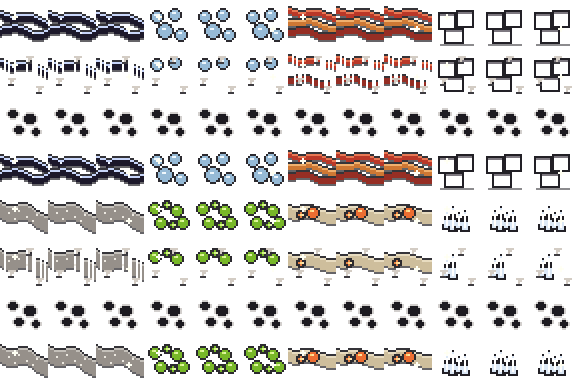
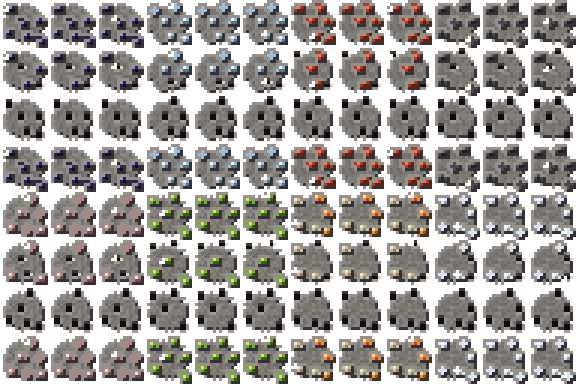
Veins: blocky ore in a stone patch, in the style of game ore blocks
Drawn on a 16 x 16 grid scaled 3x: chunky ore blobs with lit and shaded
edges, set in a patch of speckled stone so dark ores show on dark cliffs;
worked out leaves square sockets. Same sheets, spots and rows as before.

Claude-Session: https://claude.ai/code/session_0115RLwA5pjDTVrGAdwYrXJa

diff --git a/art/gather_veins.py b/art/gather_veins.py
@@ -1,135 +1,131 @@
 # Run from the repository root:  python3 art/gather_veins.py
-# Draws two character sheets of gathering spots that sit ON WALL TILES (cliff faces, tube walls): a seam of mineral
-# set into the rock, on a transparent background so the wall shows through.
+# Draws two character sheets of gathering spots that sit ON WALL TILES (cliff faces, tube walls): blocky clusters of
+# mineral set into the rock, in the angular style of game ore blocks, on a transparent background so the wall shows.
 #   img/characters/!Veins_Stone.png   stone for knapping
 #   img/characters/!Veins_Ore.png     ore and other wall finds
 # Each sheet holds 8 spots (RPG Maker's 8-character sheet). Every spot has 4 rows (the event's direction):
 #   down  = full          left = chipped (taken today)          right = worked out          up = full (spare)
 # and 3 columns: the middle one is plain; the outer two carry a glint (turn Stepping on and it twinkles).
 # SI_Gather turns the event to the right row by itself (any graphic whose name starts with "!Veins").
-# Pixel art drawn at 24 x 24 and doubled to 48 x 48.
+# Drawn on a 16 x 16 grid and scaled 3x to 48 x 48, so every pixel is a hard square. The ore sits in a patch of
+# plain speckled stone, set into the wall, so dark ores (coal, lodestone) still show on dark cliffs.
 import random
-from PIL import Image, ImageDraw
+from PIL import Image
 
-S = 24
-CRACK = (10, 8, 14)
+N = 16
 STONE = ['Obsidian', 'Chalcedony', 'Jasper', 'Basalt', 'Andesite', 'Olivine', 'Trachyte Cliff', 'Snowline Quartz']
 ORE = ['Copper Vein', 'Lead Vein', 'Lodestone', 'Coal Seam', 'Sulfur Vent', 'Moonmilk', 'Ochre', 'White Clay']
+SHADOW = (12, 10, 16, 170)
 
-def rgba(c, a=255): return tuple(c[:3]) + (a,)
-def shade(c, k, a=255): return tuple(max(0, min(255, int(v * k))) for v in c[:3]) + (a,)
+# (dark, base, light) per spot; a second palette is mixed in for a few (opal in trachyte, azurite in copper).
+PAL = {
+    'Obsidian':        [((18, 14, 30), (46, 36, 72), (150, 140, 220))],
+    'Chalcedony':      [((84, 112, 140), (156, 192, 218), (236, 246, 252))],
+    'Jasper':          [((104, 28, 22), (176, 56, 38), (232, 122, 84))],
+    'Basalt':          [((34, 32, 38), (76, 72, 82), (128, 124, 136))],
+    'Andesite':        [((112, 78, 80), (176, 132, 128), (244, 232, 226))],
+    'Olivine':         [((54, 92, 18), (116, 176, 38), (204, 238, 112))],
+    'Trachyte Cliff':  [((146, 126, 96), (204, 188, 152), (240, 230, 204)), ((190, 64, 26), (246, 136, 54), (255, 222, 140))],
+    'Snowline Quartz': [((140, 156, 182), (218, 230, 246), (255, 255, 255))],
+    'Copper Vein':     [((26, 104, 74), (56, 178, 126), (150, 240, 192)), ((34, 50, 150), (60, 96, 210), (150, 184, 252))],
+    'Lead Vein':       [((84, 90, 104), (156, 164, 180), (238, 242, 250))],
+    'Lodestone':       [((24, 18, 18), (66, 54, 52), (156, 146, 142))],
+    'Coal Seam':       [((8, 8, 10), (32, 30, 36), (86, 86, 100))],
+    'Sulfur Vent':     [((150, 120, 16), (230, 204, 46), (255, 246, 150))],
+    'Moonmilk':        [((172, 168, 158), (230, 226, 216), (255, 255, 250))],
+    'Ochre':           [((114, 40, 18), (178, 78, 34), (226, 132, 72))],
+    'White Clay':      [((166, 160, 148), (220, 214, 202), (250, 246, 238))],
+}
+SEED = {name: i * 7 + 3 for i, name in enumerate(STONE + ORE)}
 
-# A seam: a band across the tile, following a wavy centre line, with a dark crack on each side.
-def band(y0, y1, amp, phase):
-    import math
-    return [(x, y0 + (y1 - y0) * x / (S - 1) + amp * math.sin(x / 3.0 + phase)) for x in range(S)]
-def seam(d, line, width, col, hi=None, keep=1.0, rnd=None):
-    for x, y in line:
-        if rnd and rnd.random() > keep: continue
-        top, bot = int(round(y - width / 2)), int(round(y + width / 2))
-        d.line([(x, top - 1), (x, top - 1)], fill=rgba(CRACK, 210))          # crack above
-        d.line([(x, top), (x, bot)], fill=rgba(col))
-        if hi: d.point((x, top), fill=rgba(hi))
-        d.point((x, bot + 1), fill=rgba(CRACK, 160))                         # shadow below
-def nodule(d, x, y, r, col, hi=None):
-    d.ellipse([x - r - 1, y - r - 1, x + r + 1, y + r + 1], fill=rgba(CRACK, 220))
-    d.ellipse([x - r, y - r, x + r, y + r], fill=rgba(col))
-    if hi: d.point((x - r // 2, y - r // 2), fill=rgba(hi)); d.point((x - r // 2 + 1, y - r // 2), fill=rgba(hi, 180))
-def crystal(d, x, y, h, col, hi=(255, 255, 255)):
-    d.polygon([(x - 2, y), (x + 2, y), (x, y - h)], fill=rgba(CRACK, 230))
-    d.polygon([(x - 1, y - 1), (x + 1, y - 1), (x, y - h + 1)], fill=rgba(col))
-    d.line([(x, y - h + 2), (x, y - 2)], fill=rgba(hi))
-def joints(d, col):                      # basalt: a block outlined by column joints, loosened
-    for (x0, y0, x1, y1) in [(3, 6, 11, 14), (12, 5, 20, 13), (6, 14, 15, 21)]:
-        d.rectangle([x0, y0, x1, y1], outline=rgba(CRACK, 230))
-        d.line([(x0 + 1, y0 + 1), (x1 - 1, y0 + 1)], fill=shade(col, 1.4))
-def splash(d, pts, r, col, hi):           # soft wall coatings (moonmilk, ochre, clay, sulfur): blotches
-    for (x, y, k) in pts:
-        d.ellipse([x - r - k, y - r, x + r + k, y + r], fill=rgba(col, 235))
-        d.point((x - 1, y - 1), fill=rgba(hi))
+BLOBS = [   # chunky ore blobs, 4-6 pixels
+    [(0, 0), (1, 0), (0, 1), (1, 1), (2, 1)],
+    [(1, 0), (0, 1), (1, 1), (2, 1), (1, 2)],
+    [(0, 0), (1, 0), (2, 0), (1, 1), (2, 1)],
+    [(0, 0), (1, 0), (0, 1), (1, 1)],
+    [(0, 0), (1, 0), (1, 1), (2, 1), (1, 2), (2, 2)],
+    [(1, 0), (2, 0), (0, 1), (1, 1), (2, 1)],
+]
+def clusters(name):
+    """The spot's ore clusters: chunky blobs spread over the tile (fixed per spot)."""
+    r = random.Random(SEED[name]); out = []
+    cells = [(2, 2), (9, 1), (6, 6), (12, 6), (2, 10), (8, 11), (12, 12)]
+    r.shuffle(cells)
+    for k, (cx, cy) in enumerate(cells[:6]):
+        blob = r.choice(BLOBS)
+        px = {(cx + x, cy + y) for (x, y) in blob if 1 <= cx + x <= N - 2 and 1 <= cy + y <= N - 2}
+        out.append((px, k % len(PAL[name])))
+    return out
 
-# Each spot: a function drawing its full look, given (d, rnd, amount) where amount 1.0 = full, 0.5 = chipped.
-def obsidian(d, r, a):
-    for (y0, y1, ph) in [(7, 11, 0), (14, 17, 2)][: 2 if a == 1 else 1]:
-        seam(d, band(y0, y1, 1.2, ph), 3, (28, 24, 42), (200, 214, 250), a, r)
-    for (x, y) in [(6, 9), (16, 16)][: 2 if a == 1 else 1]: d.point((x, y), fill=(240, 246, 255, 255))
-def chalcedony(d, r, a):
-    for (x, y, k) in [(6, 8, 2), (15, 7, 2), (10, 15, 3), (18, 17, 2)][: 4 if a == 1 else 2]: nodule(d, x, y, k, (150, 186, 214), (236, 246, 252))
-def jasper(d, r, a):
-    cols = [((186, 56, 40), (232, 120, 84)), ((206, 120, 52), (240, 176, 110)), ((150, 46, 36), None)]
-    for i, (y0, y1, ph) in enumerate([(5, 8, 0), (10, 13, 1), (15, 18, 2)]):
-        if a < 1 and i == 1: continue
-        seam(d, band(y0, y1, 1.0, ph), 2, cols[i][0], cols[i][1], a, r)
-def basalt(d, r, a):
-    joints(d, (90, 86, 92))
-    if a == 1: d.line([(4, 22), (20, 22)], fill=rgba(CRACK, 120))
-def andesite(d, r, a):
-    seam(d, band(8, 14, 1.5, 0.5), 7, (150, 144, 138), (196, 192, 186), 1.0 if a == 1 else 0.6, r)
-    for (x, y) in [(4, 10), (9, 9), (13, 12), (18, 11), (7, 13), (16, 14)][: 6 if a == 1 else 3]: d.point((x, y), fill=(236, 232, 224, 255))
-def olivine(d, r, a):
-    for (x, y, k) in [(5, 8, 2), (11, 6, 1), (16, 9, 2), (8, 15, 2), (14, 16, 1), (19, 15, 2)][: 6 if a == 1 else 3]: nodule(d, x, y, k, (120, 184, 40), (214, 244, 130))
-def trachyte(d, r, a):
-    seam(d, band(9, 12, 0.8, 1), 5, (206, 190, 156), (232, 220, 192), 1.0, r)
-    if a == 1: nodule(d, 12, 10, 2, (236, 110, 50), (255, 214, 120))
-    nodule(d, 6, 11, 1, (230, 130, 70), (255, 220, 140))
-def quartz(d, r, a):
-    for (x, y, h) in [(7, 18, 9), (10, 19, 12), (13, 18, 8), (16, 19, 10)][: 4 if a == 1 else 2]: crystal(d, x, y, h, (220, 232, 246))
-def copper(d, r, a):
-    seam(d, band(7, 12, 1.4, 0), 3, (36, 170, 120), (130, 232, 182), a, r)
-    if a == 1: seam(d, band(14, 18, 1.2, 2), 2, (40, 150, 110), None, 1.0, r)
-    for (x, y) in [(8, 10), (17, 15)][: 2 if a == 1 else 1]: nodule(d, x, y, 1, (46, 96, 210), (140, 180, 250))
-def lead(d, r, a):
-    seam(d, band(9, 13, 1, 1), 2, (120, 128, 140), None, 1.0, r)
-    for (x, y) in [(5, 10), (11, 11), (17, 12), (8, 16)][: 4 if a == 1 else 2]:
-        d.rectangle([x - 2, y - 2, x + 1, y + 1], fill=rgba(CRACK, 220)); d.rectangle([x - 1, y - 1, x, y], fill=(200, 208, 222, 255)); d.point((x - 1, y - 1), fill=(250, 252, 255, 255))
-def lodestone(d, r, a):
-    nodule(d, 12, 12, 5 if a == 1 else 3, (52, 42, 40), (110, 96, 92))
-    for (x, y, dx, dy) in [(6, 8, -2, -2), (18, 8, 2, -2), (5, 15, -2, 1), (19, 15, 2, 1), (12, 5, 0, -2)][: 5 if a == 1 else 2]:
-        d.line([(x, y), (x + dx, y + dy)], fill=(176, 166, 160, 255))       # iron filings standing on end
-def coal(d, r, a):
-    for (y0, y1, ph) in [(6, 9, 0), (13, 16, 1.5)][: 2 if a == 1 else 1]:
-        seam(d, band(y0, y1, 0.6, ph), 3, (18, 16, 22), (96, 96, 116), a, r)
-def sulfur(d, r, a):
-    splash(d, [(6, 10, 1), (13, 8, 2), (17, 14, 1), (9, 16, 1)][: 4 if a == 1 else 2], 2, (232, 210, 56), (255, 246, 160))
-    d.line([(4, 13), (11, 12), (19, 18)], fill=rgba(CRACK, 220))
-def moonmilk(d, r, a):
-    splash(d, [(7, 8, 2), (14, 7, 1), (11, 13, 3), (17, 16, 1), (6, 17, 1)][: 5 if a == 1 else 2], 2, (236, 232, 220), (255, 255, 250))
-def ochre(d, r, a):
-    seam(d, band(8, 15, 1.6, 0.3), 6 if a == 1 else 3, (170, 66, 34), (214, 110, 60), 1.0, r)
-def white_clay(d, r, a):
-    seam(d, band(9, 14, 1.2, 1.1), 6 if a == 1 else 3, (222, 216, 204), (246, 242, 232), 1.0, r)
+def put(im, x, y, c):
+    if 0 <= x < N and 0 <= y < N: im.putpixel((x, y), c if len(c) == 4 else c + (255,))
 
-DRAW = {'Obsidian': obsidian, 'Chalcedony': chalcedony, 'Jasper': jasper, 'Basalt': basalt, 'Andesite': andesite,
-        'Olivine': olivine, 'Trachyte Cliff': trachyte, 'Snowline Quartz': quartz, 'Copper Vein': copper, 'Lead Vein': lead,
-        'Lodestone': lodestone, 'Coal Seam': coal, 'Sulfur Vent': sulfur, 'Moonmilk': moonmilk, 'Ochre': ochre, 'White Clay': white_clay}
-GLINT = [(7, 8), (16, 14)]
+def draw_cluster(im, px, pal):
+    dark, base, light = pal
+    ring = {(x + dx, y + dy) for (x, y) in px for dx in (-1, 0, 1) for dy in (-1, 0, 1)} - px
+    for (x, y) in ring:                                 # the stone around the ore: pale above / left, shadow below / right
+        below_right = any((x - dx, y - dy) in px for (dx, dy) in [(1, 0), (0, 1), (1, 1)])
+        put(im, x, y, (52, 48, 52) if below_right and not any((x + dx, y + dy) in px for (dx, dy) in [(1, 0), (0, 1)]) else (150, 144, 138))
+    for (x, y) in px:
+        lit = (x - 1, y) not in px or (x, y - 1) not in px
+        dim = (x + 1, y) not in px or (x, y + 1) not in px
+        put(im, x, y, light if lit and not dim else dark if dim and not lit else base)
+
+def socket(im, x, y, w, h):                             # an empty hole where a cluster came out
+    for i in range(w):
+        for j in range(h): put(im, x + i, y + j, (14, 12, 18))
+    for i in range(w): put(im, x + i, y + h, (160, 154, 148))            # the hole's lower lip catches the light
+    for j in range(h): put(im, x + w, y + j, (150, 144, 138))
+    for i in range(w): put(im, x + i, y - 1, (60, 56, 58))               # and its upper edge is in shadow
+
+def stone_patch(im, name):
+    """A patch of plain speckled stone, set into the wall: the ore sits in it (like an ore block)."""
+    r = random.Random(SEED[name] + 1)
+    inside = set()
+    for y in range(1, N - 1):
+        for x in range(1, N - 1):
+            dx, dy = (x - 7.5) / 7.0, (y - 7.5) / 6.6
+            if dx * dx + dy * dy <= 1.0 + r.uniform(-0.12, 0.1) and not (x in (1, N - 2) and y in (1, N - 2)):
+                inside.add((x, y))
+    for (x, y) in inside:
+        g = r.choice([112, 118, 124, 124, 130, 138])
+        put(im, x, y, (g, g - 4, g - 8))
+    for (x, y) in inside:                                # dark edge: the patch is set into the cliff
+        for (dx, dy) in [(1, 0), (0, 1), (-1, 0), (0, -1)]:
+            if (x + dx, y + dy) not in inside:
+                put(im, x, y, (58, 54, 56) if (dx, dy) in [(1, 0), (0, 1)] else (150, 144, 138))
+    return inside
 
 def frame(name, state, glint):
-    im = Image.new('RGBA', (S, S), (0, 0, 0, 0)); d = ImageDraw.Draw(im); r = random.Random(7)
-    if state == 'worked':                                  # worked out: empty sockets and pick scars in the rock
-        for (x, y, w, h) in [(4, 7, 4, 3), (12, 9, 5, 4), (7, 15, 4, 3), (16, 16, 3, 3)]:
-            d.ellipse([x - 1, y - 1, x + w + 1, y + h + 1], fill=(150, 144, 140, 110))
-            d.ellipse([x, y, x + w, y + h], fill=rgba(CRACK, 235))
+    im = Image.new('RGBA', (N, N), (0, 0, 0, 0))
+    cl = clusters(name)
+    stone_patch(im, name)
+    if state == 'worked':
+        for (px, _) in cl[:5]:
+            x = min(p[0] for p in px); y = min(p[1] for p in px)
+            socket(im, x, y, 2, 2)
         return im
-    DRAW[name](d, r, 1.0 if state == 'full' else 0.5)
-    if state == 'chipped':                                 # fresh pale scars where pieces came out
-        for (x, y) in [(13, 4), (4, 15), (18, 19)]:
-            d.polygon([(x, y), (x + 3, y), (x + 1, y + 2)], fill=(206, 198, 190, 230))
-            d.line([(x, y + 3), (x + 2, y + 3)], fill=rgba(CRACK, 200))
+    keep = cl if state == 'full' else cl[::2]
+    for (px, pal) in keep: draw_cluster(im, px, PAL[name][pal])
+    if state == 'chipped':                              # pale fresh scars and a socket where chunks came out
+        for (px, _) in cl[1::2][:2]:
+            x = min(p[0] for p in px); y = min(p[1] for p in px)
+            socket(im, x, y, 2, 1)
+            put(im, x + 2, y, (214, 206, 198, 230))
     if glint:
-        gx, gy = GLINT[glint - 1]
-        for (dx, dy) in [(0, 0), (-1, 0), (1, 0), (0, -1), (0, 1)]:
-            d.point((gx + dx, gy + dy), fill=(255, 255, 240, 255 if (dx, dy) == (0, 0) else 170))
+        px = sorted(cl[0 if glint == 1 else 1][0]); x, y = px[0]
+        put(im, x, y, (255, 255, 255, 255))
+        for (dx, dy) in [(-1, 0), (0, -1)]: put(im, x + dx, y + dy, (255, 255, 240, 160))
     return im
 
 def sheet(names, path):
-    out = Image.new('RGBA', (S * 12, S * 8), (0, 0, 0, 0))
+    out = Image.new('RGBA', (N * 12, N * 8), (0, 0, 0, 0))
     for ci, name in enumerate(names):
-        bx, by = (ci % 4) * 3 * S, (ci // 4) * 4 * S
+        bx, by = (ci % 4) * 3 * N, (ci // 4) * 4 * N
         for row, state in enumerate(['full', 'chipped', 'worked', 'full']):      # down, left, right, up
             for c, g in enumerate([1, 0, 2]):
-                out.paste(frame(name, state, g if state != 'worked' else 0), (bx + c * S, by + row * S))
-    out.resize((S * 24, S * 16), Image.NEAREST).save(path)
+                out.paste(frame(name, state, g if state != 'worked' else 0), (bx + c * N, by + row * N))
+    out.resize((N * 36, N * 24), Image.NEAREST).save(path)
 
 if __name__ == '__main__':
     sheet(STONE, 'Smoking Isle/img/characters/!Veins_Stone.png')
